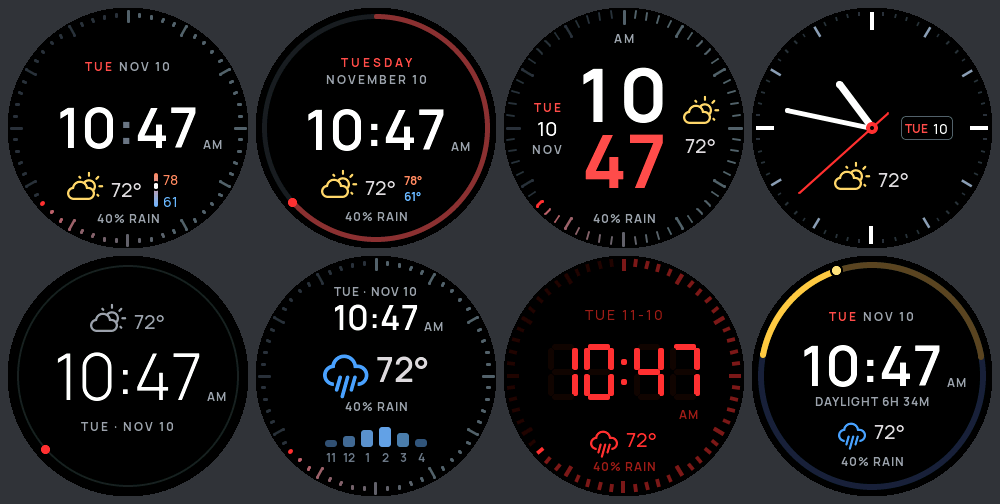
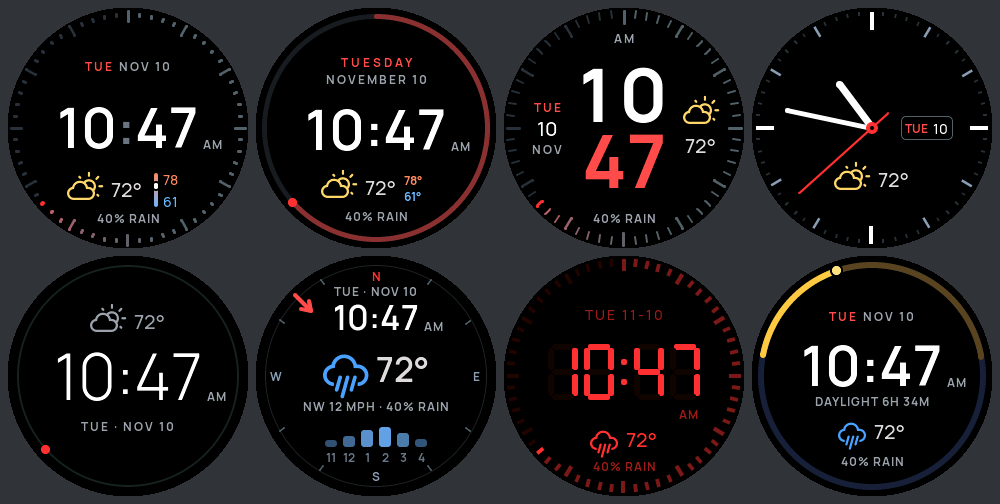
Forecast face: compass ring with wind arrow, cardinal letters and wind readout
Replace the seconds ring on the Forecast face with a static compass rose
(30 degree ticks, N/E/S/W letters) and an arrow at the bearing the wind comes
from, pointing inward. Wind speed/direction come from the existing Open-Meteo
current call (wind_speed_unit follows the temperature unit); the readout is
merged into the detail line ("NW 12 MPH · 40% RAIN").

diff --git a/src/ui.cpp b/src/ui.cpp
@@ -343,7 +343,8 @@ static void polar(float r, float deg, float &x, float &y) {
 // K_BLOCKS: chunky LCD-style blocks that fill up. K_MARKERS: static analog-dial batons.
 // K_ARC: one arc that grows with the seconds. K_ORBIT: a single dot on a hairline circle.
 // K_DAYLIGHT: 24 h dial, noon at the top: sunrise-to-sunset arc with a sun dot at "now".
-enum RingKind { K_NONE, K_TICKS, K_DOTTICKS, K_BLOCKS, K_MARKERS, K_ARC, K_ORBIT, K_DAYLIGHT };
+// K_COMPASS: static compass rose (hairline circle + 30 degree ticks) with a needle at the wind direction.
+enum RingKind { K_NONE, K_TICKS, K_DOTTICKS, K_BLOCKS, K_MARKERS, K_ARC, K_ORBIT, K_DAYLIGHT, K_COMPASS };
 static RingKind rk = K_NONE;
 static constexpr int TICK_COUNT = 60;
 static lv_obj_t *ticks[TICK_COUNT];
@@ -353,7 +354,7 @@ static lv_obj_t *ringArc, *orbitRing, *orbitDot, *dayTrack, *dayArc, *sunDot;
 static bool sunUp = true;
 
 static RingKind ringKind() {
-  static const RingKind def[FACE_COUNT] = {K_DOTTICKS, K_ARC, K_TICKS, K_MARKERS, K_ORBIT, K_DOTTICKS, K_BLOCKS, K_DAYLIGHT};
+  static const RingKind def[FACE_COUNT] = {K_DOTTICKS, K_ARC, K_TICKS, K_MARKERS, K_ORBIT, K_COMPASS, K_BLOCKS, K_DAYLIGHT};
   return def[opt.face];
 }
 static bool tickKind() { return rk == K_TICKS || rk == K_DOTTICKS || rk == K_BLOCKS; }  // has a comet (splash, chime)
@@ -552,6 +553,7 @@ static void daylightUpdate() {
   }
 }
 
+static void buildCompass();
 static void buildRing() {
   switch (rk) {
     case K_TICKS: case K_DOTTICKS: case K_BLOCKS: case K_MARKERS:
@@ -575,6 +577,9 @@ static void buildRing() {
       orbitDot = mkDisc(ringBox, ORBIT_DOT);
       orbitExec(nullptr, 0);
       break;
+    case K_COMPASS:
+      buildCompass();
+      break;
     case K_DAYLIGHT:
       dayTrack = mkRingArc(6);
       lv_obj_set_style_arc_opa(dayTrack, LV_OPA_TRANSP, LV_PART_INDICATOR);
@@ -588,6 +593,83 @@ static void buildRing() {
       break;
     default: break;
   }
+}
+
+// ---- Compass ring (Forecast face): wind direction needle + readout ---------------------------------
+static lv_obj_t *compRing, *compTick[12], *compCard[4], *windNeedle;
+static lv_point_precise_t compPts[12][2], needlePts[5];  // must outlive the line objects
+static int windDeg = -1;
+static char windStr[16] = "";
+static constexpr float COMP_R = 111.0f;
+
+// A line from radius r1 to r2 at bearing `deg`; lv_line points are relative to the object's bounding-box corner.
+static void placeSeg(lv_obj_t *l, lv_point_precise_t *pts, float r1, float r2, float deg) {
+  float x1, y1, x2, y2;
+  polar(r1, deg, x1, y1);
+  polar(r2, deg, x2, y2);
+  float minx = fminf(x1, x2), miny = fminf(y1, y2);
+  pts[0] = {(lv_value_precise_t)lroundf(x1 - minx), (lv_value_precise_t)lroundf(y1 - miny)};
+  pts[1] = {(lv_value_precise_t)lroundf(x2 - minx), (lv_value_precise_t)lroundf(y2 - miny)};
+  lv_line_set_points(l, pts, 2);
+  lv_obj_set_pos(l, (int32_t)lroundf(minx), (int32_t)lroundf(miny));
+}
+
+// Arrow on the rim at the bearing the wind comes FROM, pointing inward (the way the wind blows).
+static void placeArrow(float deg) {
+  float a = deg * (float)M_PI / 180.0f, dx = sinf(a), dy = -cosf(a);  // outward unit vector; perpendicular is (-dy, dx)
+  auto pt = [&](float r, float lat, float &x, float &y) {
+    x = RING_CENTER + r * dx - lat * dy;
+    y = RING_CENTER + r * dy + lat * dx;
+  };
+  const float tail = COMP_R + 3, tip = COMP_R - 19, back = 8, wing = 5.5f;
+  float px[5], py[5];
+  pt(tip + back, -wing, px[0], py[0]);  // barb
+  pt(tip, 0, px[1], py[1]);             // tip
+  pt(tip + back, wing, px[2], py[2]);   // other barb
+  pt(tip, 0, px[3], py[3]);
+  pt(tail, 0, px[4], py[4]);            // tail
+  float minx = px[0], miny = py[0];
+  for (int i = 1; i < 5; i++) { minx = fminf(minx, px[i]); miny = fminf(miny, py[i]); }
+  for (int i = 0; i < 5; i++) needlePts[i] = {(lv_value_precise_t)lroundf(px[i] - minx), (lv_value_precise_t)lroundf(py[i] - miny)};
+  lv_line_set_points(windNeedle, needlePts, 5);
+  lv_obj_set_pos(windNeedle, (int32_t)lroundf(minx), (int32_t)lroundf(miny));
+}
+
+static void windUpdate() {
+  if (windNeedle) {
+    setHidden(windNeedle, windDeg < 0);
+    if (windDeg >= 0) placeArrow((float)windDeg);
+  }
+}
+
+static void buildCompass() {
+  compRing = box(ringBox);
+  lv_obj_set_size(compRing, 222, 222);
+  lv_obj_center(compRing);
+  lv_obj_set_style_radius(compRing, LV_RADIUS_CIRCLE, 0);
+  lv_obj_set_style_border_width(compRing, 1, 0);
+  lv_obj_set_style_border_opa(compRing, LV_OPA_COVER, 0);
+  static const char *CARD[4] = {"N", "E", "S", "W"};
+  for (int i = 0; i < 12; i++) {
+    if (i % 3 == 0) {  // N/E/S/W: a letter instead of a tick
+      lv_obj_t *l = compCard[i / 3] = mkLabel(ringBox, &manrope_caps_12);
+      lv_label_set_text(l, CARD[i / 3]);
+      float x, y;
+      polar(100, i * 30.0f, x, y);
+      lv_obj_align(l, LV_ALIGN_CENTER, (int)lroundf(x - RING_CENTER), (int)lroundf(y - RING_CENTER));
+      continue;
+    }
+    compTick[i] = lv_line_create(ringBox);
+    lv_obj_remove_style_all(compTick[i]);
+    placeSeg(compTick[i], compPts[i], COMP_R - 6, COMP_R - 1, i * 30.0f);
+    lv_obj_set_style_line_width(compTick[i], 2, 0);
+    lv_obj_set_style_line_rounded(compTick[i], true, 0);
+  }
+  windNeedle = lv_line_create(ringBox);
+  lv_obj_remove_style_all(windNeedle);
+  lv_obj_set_style_line_width(windNeedle, 4, 0);
+  lv_obj_set_style_line_rounded(windNeedle, true, 0);
+  lv_obj_add_flag(windNeedle, LV_OBJ_FLAG_HIDDEN);
 }
 
 // ---- Hourly chime: one comet lap around the ring at the top of the hour (day only, non-blocking) ----
@@ -988,6 +1070,7 @@ static void buildFace() {
       mkWeather(0, -6, false, 0, &manrope_34, &weather_icons_42);
       mkDetail(0, 30);
       buildBars();
+      lv_obj_set_width(detailBox, 200);  // room for "NW 12 MPH · 40% RAIN"
       mkOffline(-66, -59);
       break;
     case FACE_RETRO:  // seven-segment LCD
@@ -1292,6 +1375,13 @@ static void applyTheme() {
     lv_obj_set_style_border_color(orbitRing, mixDN(mixHex(T.dim, 0x000000, 70), 0x000000), 0);
     bgc(orbitDot, mixDN(T.tick, 0x000000));
   }
+  if (compRing) {
+    lv_obj_set_style_border_color(compRing, mixDN(mixHex(T.dim, 0x000000, 80), 0x000000), 0);
+    for (int i = 0; i < 12; i++)
+      if (compTick[i]) lv_obj_set_style_line_color(compTick[i], mixDN(T.base, 0x000000), 0);
+    for (int i = 0; i < 4; i++) tc(compCard[i], mixDN(i == 0 ? T.tick : T.bright, 0x000000));
+    lv_obj_set_style_line_color(windNeedle, mixDN(T.accent, 0x000000), 0);
+  }
   daylightPaint();
 }
 
@@ -1417,10 +1507,18 @@ static void startFall(int kind, uint32_t color) {
 static bool msgInDetail() { return opt.face == FACE_STACKED || opt.face == FACE_FORECAST; }
 
 // The detail line shows the weather message (see above), else the detail text if that option is on.
+// The Forecast face adds the wind readout to it ("NW 12 MPH · 40% RAIN").
 static void refreshDetail() {
-  char buf[32] = "";
+  char buf[56] = "";
   if (wx.set && !wx.hasIcon && wx.text[0] && msgInDetail()) strlcpy(buf, wx.text, sizeof(buf));
-  else if (opt.detail) strlcpy(buf, detailText, sizeof(buf));
+  else {
+    bool wind = opt.face == FACE_FORECAST && windStr[0];
+    if (wind) strlcpy(buf, windStr, sizeof(buf));
+    if (opt.detail && detailText[0]) {
+      if (wind) strlcat(buf, " \xC2\xB7 ", sizeof(buf));
+      strlcat(buf, detailText, sizeof(buf));
+    }
+  }
   upper(buf);  // the small-caps font has no lowercase
   swapText(SW_DETAIL, detailLabel, buf);
 }
@@ -1548,6 +1646,13 @@ void ui_set_weather(const char *icon, uint32_t iconColor, const char *text, bool
   applyWeather(true);
 }
 
+void ui_set_wind(int fromDeg, const char *text) {
+  windDeg = fromDeg;
+  snprintf(windStr, sizeof(windStr), "%s", text ? text : "");
+  windUpdate();
+  refreshDetail();
+}
+
 void ui_set_weather_extra(const int *rain, int count, int startHour, int sunrise, int sunset, const int *temps) {
   for (int k = 0; k < RAIN_BARS; k++) rainPct[k] = rain && k < count ? rain[k] : -1;
   for (int k = 0; k < RAIN_BARS; k++) tempHr[k] = temps && k < count ? temps[k] : -32768;
@@ -1577,6 +1682,9 @@ static void rebuild() {
   memset(bars, 0, sizeof(bars));
   memset(barLbl, 0, sizeof(barLbl));
   memset(barTemp, 0, sizeof(barTemp));
+  memset(compTick, 0, sizeof(compTick));
+  memset(compCard, 0, sizeof(compCard));
+  compRing = windNeedle = nullptr;
   memset(swaps, 0, sizeof(swaps));
   floatAmpm = false;
   lastMin = lastHour = lastDay = ringSec = -1;
@@ -1598,6 +1706,7 @@ static void rebuild() {
   if (!loadingShown) applyWeather(false);
   refreshDetail();
   barsUpdate();
+  windUpdate();
   applyStale(0);
   if (offBox && offShown) {
     lv_obj_remove_flag(offBox, LV_OBJ_FLAG_HIDDEN);

diff --git a/src/weather.cpp b/src/weather.cpp
@@ -16,6 +16,8 @@ struct Extra {
   int rainPct = -1;
   int rainHours[WeatherData::RAIN_HOURS] = {-1, -1, -1, -1, -1, -1};
   int tempHours[WeatherData::RAIN_HOURS] = {-32768, -32768, -32768, -32768, -32768, -32768};
+  float windSpeed = 0;
+  int windDir = -1;
   int rainStartHour = -1, sunriseMin = -1, sunsetMin = -1;
 };
 
@@ -27,6 +29,8 @@ static void publish(bool valid, float temp, int code, bool isDay, float hi, floa
     g_data.rainPct = ex.rainPct;
     memcpy(g_data.rainHours, ex.rainHours, sizeof(g_data.rainHours));
     memcpy(g_data.tempHours, ex.tempHours, sizeof(g_data.tempHours));
+    g_data.windSpeed = ex.windSpeed;
+    g_data.windDir = ex.windDir;
     g_data.rainStartHour = ex.rainStartHour;
     g_data.sunriseMin = ex.sunriseMin;
     g_data.sunsetMin = ex.sunsetMin;
@@ -152,10 +156,10 @@ static int isoMinutes(const String &s, const char *key, int from) {
 static bool fetchCurrent(float lat, float lon, char unit, float &temp, int &code, bool &isDay, float &hi, float &lo,
                          bool &hasRange, Extra &ex) {
   String body;
-  String url = "https://api.open-meteo.com/v1/forecast?current=temperature_2m,apparent_temperature,weather_code,is_day"
+  String url = "https://api.open-meteo.com/v1/forecast?current=temperature_2m,apparent_temperature,weather_code,is_day,wind_speed_10m,wind_direction_10m"
                "&daily=temperature_2m_max,temperature_2m_min,sunrise,sunset&hourly=precipitation_probability,temperature_2m&forecast_hours=" +
                String(RAIN_HOURS) + "&forecast_days=1&timezone=auto&temperature_unit=" +
-               String(unit == 'C' ? "celsius" : "fahrenheit") + "&latitude=" + String(lat, 4) + "&longitude=" + String(lon, 4);
+               String(unit == 'C' ? "celsius" : "fahrenheit") + "&wind_speed_unit=" + String(unit == 'C' ? "kmh" : "mph") + "&latitude=" + String(lat, 4) + "&longitude=" + String(lon, 4);
   if (!httpsGet(url, body)) return false;
   int c = body.indexOf("\"current\":{");  // not "current_units"
   double t, w, d = 1;
@@ -166,6 +170,10 @@ static bool fetchCurrent(float lat, float lon, char unit, float &temp, int &code
   isDay = d != 0;
   double fl;
   ex.feels = findNum(body, "\"apparent_temperature\":", c, fl) ? (float)fl : temp;
+
+  double wsp, wdir;
+  ex.windSpeed = findNum(body, "\"wind_speed_10m\":", c, wsp) ? (float)wsp : 0;
+  ex.windDir = findNum(body, "\"wind_direction_10m\":", c, wdir) ? ((int)lround(wdir) % 360 + 360) % 360 : -1;
 
   // Rain chance: max over the next RAIN_HOURS hourly values (entries may be null).
   ex.rainPct = -1;

diff --git a/src/main.cpp b/src/main.cpp
@@ -96,6 +96,16 @@ static void weatherDetail(const WeatherData &w, char *out, size_t n) {
     snprintf(out, n, "Feels %d\xC2\xB0", (int)lroundf(w.feels));
 }
 
+// "NW 12 MPH" / "CALM" for the compass readout (the small font is caps-only).
+static void windText(const WeatherData &w, char *out, size_t n) {
+  static const char *P[] = {"N", "NE", "E", "SE", "S", "SW", "W", "NW"};
+  out[0] = 0;
+  if (w.windDir < 0) return;
+  int sp = (int)lroundf(w.windSpeed);
+  if (sp < 1) snprintf(out, n, "CALM");
+  else snprintf(out, n, "%s %d %s", P[((w.windDir + 22) / 45) % 8], sp, w.unit == 'C' ? "KM/H" : "MPH");
+}
+
 // Night by the clock (setup page "Fixed hours"): from nightStart:00 until nightEnd:00, possibly across midnight.
 static bool scheduledNight(int hour) {
   int a = g_cfg.nightStart, b = g_cfg.nightEnd;
@@ -165,11 +175,14 @@ void loop() {
         ui_set_weather(icon, color, buf, w.hasRange, (int)lroundf(w.lo), (int)lroundf(w.hi), w.temp, weather_fall(w.code));
         weatherDetail(w, buf, sizeof(buf));
         ui_set_weather_detail(buf);
+        windText(w, buf, sizeof(buf));
+        ui_set_wind(w.windDir, buf);
         ui_set_weather_extra(w.rainHours, WeatherData::RAIN_HOURS, w.rainStartHour, w.sunriseMin, w.sunsetMin,
                             w.tempHours);
       } else {
         ui_set_weather(nullptr, 0, w.error, false, 0, 0, 0);
         ui_set_weather_extra(nullptr, 0, -1, -1, -1);
+        ui_set_wind(-1, "");
       }
     }
   }

diff --git a/src/weather.h b/src/weather.h
@@ -14,6 +14,8 @@ struct WeatherData {
   static constexpr int RAIN_HOURS = 6;
   int rainHours[RAIN_HOURS] = {-1, -1, -1, -1, -1, -1};  // hourly precipitation probability, -1 if unknown
   int tempHours[RAIN_HOURS] = {-32768,-32768,-32768,-32768,-32768,-32768};  // hourly temperature (rounded), -32768 if unknown
+  float windSpeed = 0;    // current wind speed (mph for F, km/h for C)
+  int windDir = -1;       // direction the wind comes FROM, degrees clockwise from north, -1 if unknown
   int rainStartHour = -1; // local hour (0-23) of rainHours[0], -1 if unknown
   int sunriseMin = -1, sunsetMin = -1;  // today's sunrise/sunset, minutes after local midnight (-1 if unknown)
   uint32_t fetchedAt = 0; // millis() of the last successful fetch (to spot stale data)

diff --git a/src/ui.h b/src/ui.h
@@ -65,6 +65,10 @@ void ui_set_weather(const char *icon, uint32_t iconColor, const char *text, bool
 void ui_set_weather_extra(const int *rain, int count, int startHour, int sunriseMin, int sunsetMin,
                            const int *temps = nullptr);
 
+// Wind for the compass ring (Forecast face): direction it comes FROM in degrees (-1 = unknown) and a
+// ready-made readout such as "NW 12 MPH" ("" hides it).
+void ui_set_wind(int fromDeg, const char *text);
+
 // Small line under the weather row, e.g. "40% rain" or "Feels 65°"; "" fades it away.
 void ui_set_weather_detail(const char *text);
 

diff --git a/docs/tools/sim/sim.cpp b/docs/tools/sim/sim.cpp
@@ -33,6 +33,7 @@ static void weather(bool rainy) {
   else ui_set_weather("\xEF\x80\x82", 0xFFD66B, "72\xC2\xB0", true, 61, 78, 72, 0);
   ui_set_weather_detail("40% rain");
   static const int dry[6] = {0, 0, 5, 10, 0, 0}, temps[6] = {68, 71, 73, 74, 72, 69};
+  ui_set_wind(315, "NW 12 MPH");
   ui_set_weather_extra(rainy ? rain : dry, 6, 11, 6 * 60 + 42, 17 * 60 + 21, temps);
 }
 int main(int argc, char **argv) {

diff --git a/CLAUDE.md b/CLAUDE.md
@@ -37,7 +37,7 @@ Docs for people and agents: `docs/CUSTOMIZING.md` (where to change what), `docs/
 - **Seconds ring**: 60 `lv_line` ticks created in `createTicks()`; only changed ticks are restyled each second. Layout constants (ring radius, label y-offsets of ±58) were tuned by eye on the real display.
 - **Clock face details**: the seconds ring has a "comet tail" (the 12 ticks behind the current second fade from soft blue-grey (colour only, same width as other ticks; squared falloff) down to a deliberately dim base grey; it was white/15 ticks and read too bright; `TAIL_LEN` in `styleTick`; the tail wraps past 12 o'clock and the previous minute's lit ticks dissolve to dim over the first `TAIL_LEN` seconds, so there is no hard reset at :00; and `ui_update` restyles that many ticks back each second). The time is split into hours / `:` / minutes labels (the colon used to blink; removed as distracting next to the ring) plus a small AM/PM; AM/PM is a separate label aligned to the right of the minutes (`lv_obj_align_to`, offset tuned by eye) so it does not shift the digits off-centre.
 - **Setup-page display options** (`UiOptions` -> `ui_set_options()`; NVS `h24`, `datefmt`, `face`, `accent` (theme index into `THEMES[]`; first six match the old accent order), `secs`, `chime`, `detail`, `nmode`/`nstart`/`nend`, `ncolor`). `main.cpp` loads config *before* the splash so options apply from the first frame. Night colours are one base colour (`NIGHTS[]`) at varying brightness via `nightC(pct)`; never hard-code a night hex.
-- **Faces** (`enum Face` in `ui.h`: Polished (default), Arc, Stacked, Analog, Zen, Forecast, Retro, Daylight). All face objects live under `faceRoot` (`ringBox` + `content`); `rebuild()` deletes and recreates them when the face/options change and refills from cached state (`lastTm`, `wx`, `detailText`, stale/offline/loading, rain hours, sunrise/sunset). A face creates only what it uses, so **object pointers may be null**: go through `tc`/`bgc`/`setText`/`setHidden`/`swapText` or check. `content` stays hidden until the first `ui_update()` so boot animations own the centre. Anything animating a non-object variable or using an `lv_timer` (chime, `rangeFrac`, `orbitA`) must be stopped in `rebuild()`. Ring kinds (`RingKind`, always the face's default via `ringKind()`; no user option): ticks, dot-ticks, blocks, analog markers, arc (`lv_arc`, value animated), orbit dot, daylight dial. Splash and chime only run on tick kinds. Weather messages without an icon go to the detail line on Stacked/Forecast (`msgInDetail()`).
+- **Faces** (`enum Face` in `ui.h`: Polished (default), Arc, Stacked, Analog, Zen, Forecast, Retro, Daylight). All face objects live under `faceRoot` (`ringBox` + `content`); `rebuild()` deletes and recreates them when the face/options change and refills from cached state (`lastTm`, `wx`, `detailText`, stale/offline/loading, rain hours, sunrise/sunset). A face creates only what it uses, so **object pointers may be null**: go through `tc`/`bgc`/`setText`/`setHidden`/`swapText` or check. `content` stays hidden until the first `ui_update()` so boot animations own the centre. Anything animating a non-object variable or using an `lv_timer` (chime, `rangeFrac`, `orbitA`) must be stopped in `rebuild()`. Ring kinds (`RingKind`, always the face's default via `ringKind()`; no user option): ticks, dot-ticks, blocks, analog markers, arc (`lv_arc`, value animated), orbit dot, daylight dial, compass (Forecast: static rose with a needle at the wind-from bearing; `ui_set_wind()`, readout like `NW 12 MPH` from `windText()` in `main.cpp`; wind comes from the same Open-Meteo current call, `wind_speed_unit` follows the temperature unit). The Forecast face has no seconds ring; dry spells (<30 % rain) show hourly temperature bars with values instead of rain bars. Splash and chime only run on tick kinds. Weather messages without an icon go to the detail line on Stacked/Forecast (`msgInDetail()`).
 - **BOOT button** (`prov_button_event()`): short press (40 ms to 1 s, on release; reported after a 350 ms double-press window) cycles the face and saves `face`, double press cycles the colour theme and saves `accent`; 3 s hold enters setup. `prov_button_long_press()` wraps it for the boot waits.
 - **Night mode source** (`nmode`): 0 `is_day` from weather, 1 fixed hours (`scheduledNight()` in `main.cpp`), 2 never.
 - **Host renders**: `sh docs/tools/sim/render.sh` compiles `ui.cpp` with a stub `Arduino.h` against `.pio/libdeps/.../lvgl` (run `pio run` once first) and writes `docs/faces/*.png`. Use it to check layout changes before flashing; rerun it when faces change. `docs/states/*.svg` (hand-drawn by `gen_states.py`) still show the pre-faces look of the default face.
